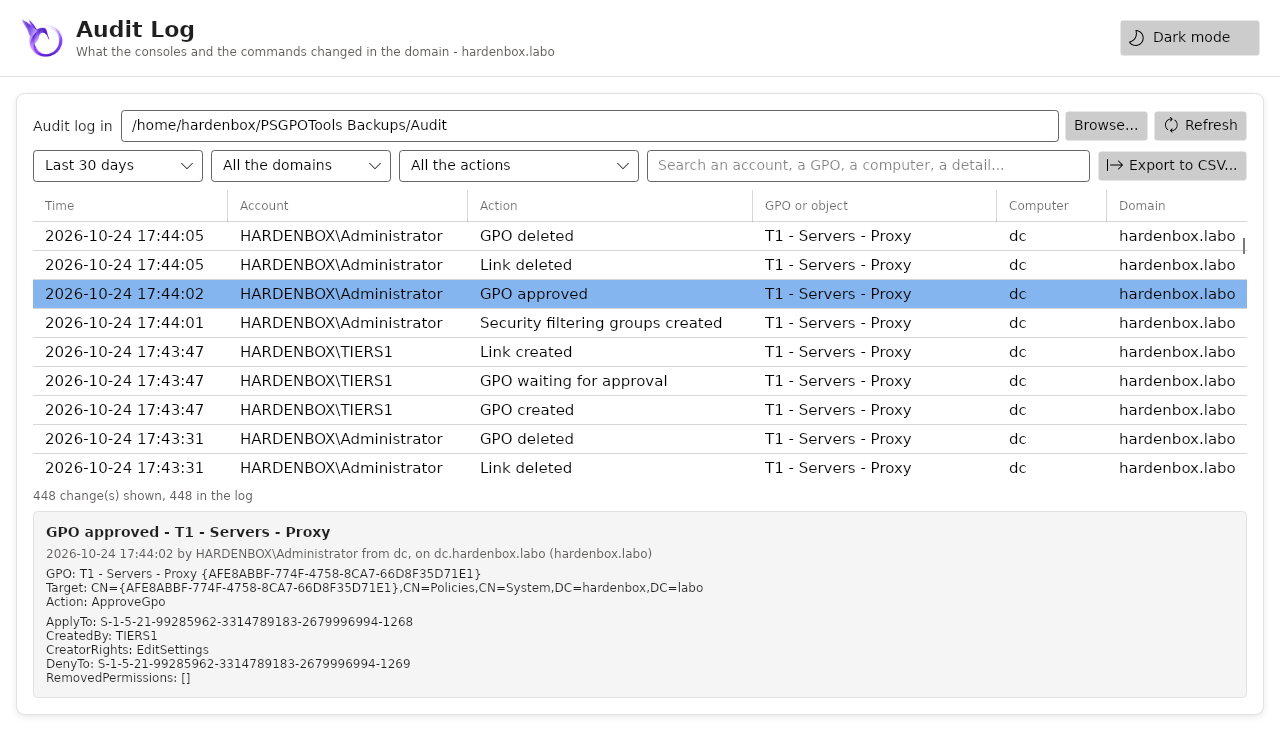
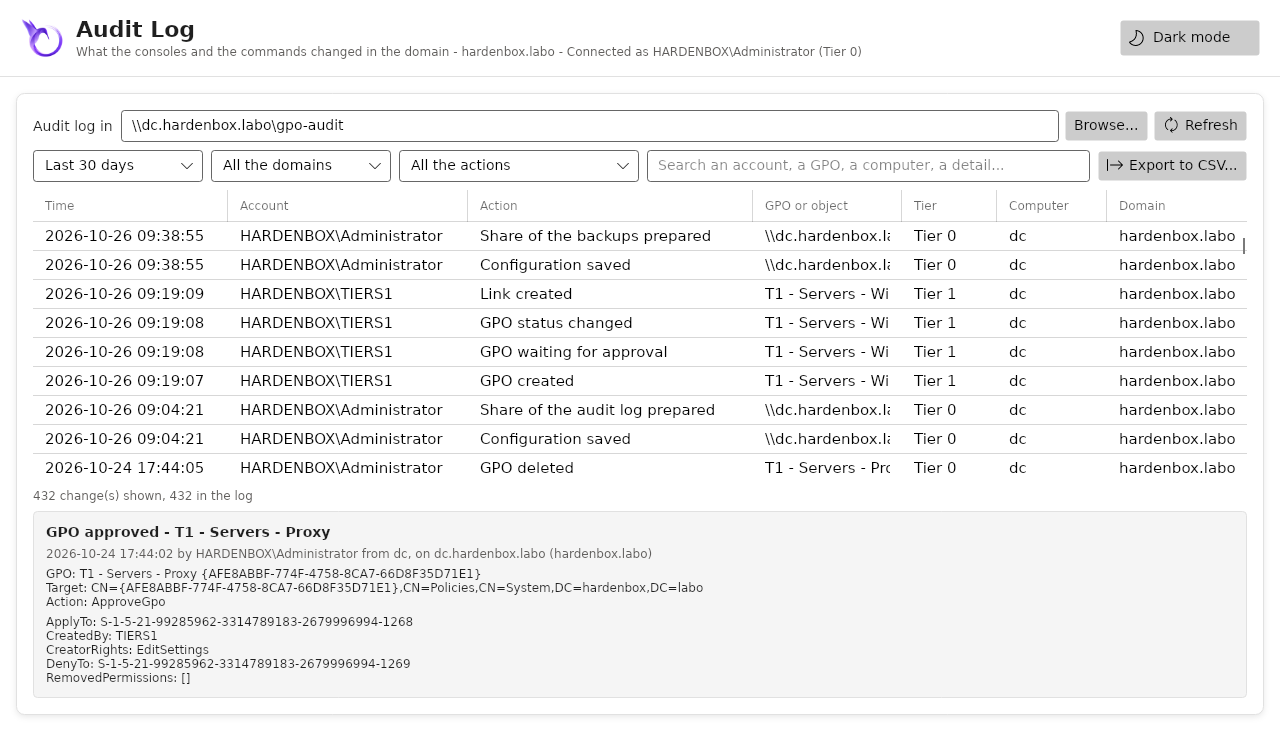
The documentation of the lab of Windows as complete as the one of Samba, with its screenshots; the tiers shown as Tier 0, Tier 1, Tier 2 in both languages

diff --git a/docs/fr/getting-started/lab.md b/docs/fr/getting-started/lab.md
@@ -1,27 +1,36 @@
 # Le labo
 
-Les captures et les tests de cette documentation viennent de deux domaines.
+Les captures et les tests de cette documentation viennent de deux domaines construits de la même
+façon, l'un sous Linux avec Samba AD, l'autre sous Windows avec Active Directory : les mêmes tiers,
+groupes, délégation, workflow d'approbation et partages centraux.
 
-## hardenbox.labo (Samba AD)
+| | hardenbox.labo (Samba AD) | powershell.labo (Active Directory) |
+|---|---|---|
+| Contrôleur de domaine | `dc.hardenbox.labo`, Debian 13, Samba 4.22 | `ADDS.powershell.labo`, Windows Server |
+| Console | sur le contrôleur de domaine lui-même, Linux, PowerShell 7 | `CLI`, Windows 11 membre du domaine, PowerShell 7, outils RSAT de gestion des stratégies de groupe |
+| Compte de la console | un ticket Kerberos d'`administrator` (Tier 0) ou de `tiers1` (Tier 1) : `kinit` le change | la session d'`Administrator` (Tier 0), ou de `tiers1` |
+| OU | `Tier 1` (`Servers`, `Groups`), `Tier 2` (`Workstations`, `Users`, `Groups`), `Test`, `Groupes`, `Domain Controllers` | `Tier 1` (`Servers`, `Groups`), `Tier 2` (`Workstations`, `Users`, `Groups`), `azertyuiop`, `Domain Controllers` |
+| Groupes | `GPO-Tier1-Admins` (membre `tiers1`), `GPO-Tier2-Admins` (membre `tiers2`) | `GPO-Tier1-Admins` (membre `Tiers1`), `GPO-Tier2-Admins` (membre `Tiers2`) |
+| Délégation | chaque groupe lie des GPO à son OU (écriture de `gPLink` et `gPOptions`) | la même |
+| GPO | Default Domain Policy, Default Domain Controllers Policy, `T1 - Servers - Baseline`, `T2 - Workstations - Baseline`… | Default Domain Policy, Default Domain Controllers Policy, `TEST` |
+| Workflow d'approbation | activé : approbateurs `Domain Admins`, créateurs `GPO-Tier1-Admins`, `GPO-Tier2-Admins` | le même |
+| Journal d'audit central | `\\dc.hardenbox.labo\gpo-audit` (partage Samba du contrôleur de domaine) | `\\CLI.powershell.labo\gpo-audit` (`C:\Shares\gpo-audit`) |
+| Sauvegardes centrales | `\\dc.hardenbox.labo\gpo-backups`, monté sur `/mnt/gpo-backups` | `\\CLI.powershell.labo\gpo-backups` (`C:\Shares\gpo-backups`) |
+| Journal du système | journald (`journalctl -t hgpm`) | le journal d'événements Application, source HGPM |
 
-| | |
-|---|---|
-| Contrôleur de domaine | `dc.hardenbox.labo`, Debian 13, Samba 4.22 |
-| OU | `Tier 1` (`Servers`, `Groups`), `Tier 2` (`Workstations`, `Users`, `Groups`), `Test`, `Groupes`, `Domain Controllers` |
-| Groupes | `GPO-Tier1-Admins` (membre `tiers1`), `GPO-Tier2-Admins` (membre `tiers2`) |
-| Délégation | chaque groupe lie des GPO à son OU (écriture de `gPLink` et `gPOptions`) |
-| GPO | Default Domain Policy, Default Domain Controllers Policy, `T1 - Servers - Baseline`, `T2 - Workstations - Baseline`… |
-| Workflow d'approbation | activé : approbateurs `Domain Admins`, créateurs `GPO-Tier1-Admins`, `GPO-Tier2-Admins` |
+=== "hardenbox.labo (Samba AD)"
 
-La console tourne sur le contrôleur de domaine lui-même, avec un ticket Kerberos d'`administrator`
-(Tier 0) ou de `tiers1` (Tier 1) : `kinit` change le compte qu'utilise la console.
+    ![La console sur hardenbox.labo](../assets/screenshots/01-console-domain.fr.png)
 
-## powershell.labo (Active Directory)
+    ![Le journal d'audit de hardenbox.labo](../assets/screenshots/63-audit-log.fr.png)
 
-| | |
-|---|---|
-| Contrôleur de domaine | `ADDS.powershell.labo`, Windows Server |
-| Client | Windows 11 membre du domaine, outils RSAT de gestion des stratégies de groupe |
+=== "powershell.labo (Active Directory)"
+
+    ![La console sur powershell.labo](../assets/screenshots/65-console-active-directory.fr.png)
+
+    ![Le journal d'audit de powershell.labo](../assets/screenshots/66-audit-log-active-directory.fr.png)
+
+    ![Les événements de HGPM dans l'Observateur d'événements](../assets/screenshots/67-event-viewer.png)
 
 ## Monter le vôtre
 

diff --git a/docs/en/getting-started/lab.md b/docs/en/getting-started/lab.md
@@ -1,27 +1,36 @@
 # The lab
 
-The screenshots and the tests of this documentation come from two domains.
+The screenshots and the tests of this documentation come from two domains built the same way, one
+on Linux with Samba AD, one on Windows with Active Directory: the same tiers, groups, delegation,
+approval workflow and central shares.
 
-## hardenbox.labo (Samba AD)
+| | hardenbox.labo (Samba AD) | powershell.labo (Active Directory) |
+|---|---|---|
+| Domain controller | `dc.hardenbox.labo`, Debian 13, Samba 4.22 | `ADDS.powershell.labo`, Windows Server |
+| Console | on the domain controller itself, Linux, PowerShell 7 | `CLI`, Windows 11 member of the domain, PowerShell 7, RSAT Group Policy Management tools |
+| Account of the console | a Kerberos ticket of `administrator` (Tier 0) or of `tiers1` (Tier 1): `kinit` changes it | the session of `Administrator` (Tier 0), or of `tiers1` |
+| OUs | `Tier 1` (`Servers`, `Groups`), `Tier 2` (`Workstations`, `Users`, `Groups`), `Test`, `Groupes`, `Domain Controllers` | `Tier 1` (`Servers`, `Groups`), `Tier 2` (`Workstations`, `Users`, `Groups`), `azertyuiop`, `Domain Controllers` |
+| Groups | `GPO-Tier1-Admins` (member `tiers1`), `GPO-Tier2-Admins` (member `tiers2`) | `GPO-Tier1-Admins` (member `Tiers1`), `GPO-Tier2-Admins` (member `Tiers2`) |
+| Delegation | each group links GPOs to its own OU (write `gPLink` and `gPOptions`) | the same |
+| GPOs | Default Domain Policy, Default Domain Controllers Policy, `T1 - Servers - Baseline`, `T2 - Workstations - Baseline`... | Default Domain Policy, Default Domain Controllers Policy, `TEST` |
+| Approval workflow | enabled: approvers `Domain Admins`, creators `GPO-Tier1-Admins`, `GPO-Tier2-Admins` | the same |
+| Central audit log | `\\dc.hardenbox.labo\gpo-audit` (Samba share on the domain controller) | `\\CLI.powershell.labo\gpo-audit` (`C:\Shares\gpo-audit`) |
+| Central backups | `\\dc.hardenbox.labo\gpo-backups`, mounted on `/mnt/gpo-backups` | `\\CLI.powershell.labo\gpo-backups` (`C:\Shares\gpo-backups`) |
+| Log of the system | journald (`journalctl -t hgpm`) | the event log Application, source HGPM |
 
-| | |
-|---|---|
-| Domain controller | `dc.hardenbox.labo`, Debian 13, Samba 4.22 |
-| OUs | `Tier 1` (`Servers`, `Groups`), `Tier 2` (`Workstations`, `Users`, `Groups`), `Test`, `Groupes`, `Domain Controllers` |
-| Groups | `GPO-Tier1-Admins` (member `tiers1`), `GPO-Tier2-Admins` (member `tiers2`) |
-| Delegation | each group links GPOs to its own OU (write `gPLink` and `gPOptions`) |
-| GPOs | Default Domain Policy, Default Domain Controllers Policy, `T1 - Servers - Baseline`, `T2 - Workstations - Baseline`... |
-| Approval workflow | enabled: approvers `Domain Admins`, creators `GPO-Tier1-Admins`, `GPO-Tier2-Admins` |
+=== "hardenbox.labo (Samba AD)"
 
-The console runs on the domain controller itself, with a Kerberos ticket of `administrator`
-(Tier 0) or of `tiers1` (Tier 1): `kinit` changes the account the console uses.
+    ![The console on hardenbox.labo](../assets/screenshots/01-console-domain.png)
 
-## powershell.labo (Active Directory)
+    ![The audit log of hardenbox.labo](../assets/screenshots/63-audit-log.png)
 
-| | |
-|---|---|
-| Domain controller | `ADDS.powershell.labo`, Windows Server |
-| Client | Windows 11 member of the domain, RSAT Group Policy Management tools |
+=== "powershell.labo (Active Directory)"
+
+    ![The console on powershell.labo](../assets/screenshots/65-console-active-directory.png)
+
+    ![The audit log of powershell.labo](../assets/screenshots/66-audit-log-active-directory.png)
+
+    ![The events of HGPM in the Event Viewer](../assets/screenshots/67-event-viewer.png)
 
 ## Make your own
 

diff --git a/docs/fr/features/audit-log.md b/docs/fr/features/audit-log.md
@@ -14,7 +14,13 @@ Show-AuditLogAvalonia -Path \\fichiers\gpo-audit              # un autre dossier
 Show-AuditLogAvalonia -Server dc.hardenbox.labo -Language fr-FR
 ```
 
-![Le journal d'audit](../assets/screenshots/63-audit-log.fr.png)
+=== "Samba AD (Linux)"
+
+    ![Le journal d'audit](../assets/screenshots/63-audit-log.fr.png)
+
+=== "Active Directory (Windows)"
+
+    ![Le journal d'audit sous Windows, le partage central](../assets/screenshots/66-audit-log-active-directory.fr.png)
 
 ## Les modifications
 
@@ -70,6 +76,7 @@ Le partage a un dossier par tier, et les droits des rôles :
 | `Tier1` | les groupes de `Audit.Tiers.Tier1` | le Tier 1, le Tier 0, les lecteurs |
 | `Tier2` | les groupes de `Audit.Tiers.Tier2` | le Tier 2, le Tier 0, les lecteurs |
 | `Unassigned` | un compte sans tier | le Tier 0, les lecteurs |
+| le partage lui-même | personne | listé par les groupes des tiers et les lecteurs ; tout autre compte ne fait que le traverser, vers `Unassigned` |
 
 - Chaque compte ajoute ses modifications à **son propre fichier** :
   `<tier>\<domaine>-<aaaa-MM>-<compte>-<ordinateur>.jsonl`. Deux consoles n'écrivent jamais le même
@@ -191,6 +198,8 @@ du journal technique partent aussi dans le journal du système, où un SIEM les 
 | Une modification | Information, l'ID d'événement de son action | `user.notice`, `[<ID d'événement>]` |
 | Un avertissement, une erreur | Warning 2000, Error 3000 | `user.warning`, `user.err` |
 | Une fois par ordinateur | `Register-PSGPOEventSource`, en administrateur | rien |
+
+![Les événements de HGPM dans l'Observateur d'événements](../assets/screenshots/67-event-viewer.png)
 
 Le message dit quoi, par qui, d'où et sur quoi, puis l'entrée du journal d'audit en JSON :
 

diff --git a/docs/en/features/audit-log.md b/docs/en/features/audit-log.md
@@ -13,7 +13,13 @@ Show-AuditLogAvalonia -Path \\files\gpo-audit                # another folder
 Show-AuditLogAvalonia -Server dc.hardenbox.labo -Language fr-FR
 ```
 
-![The audit log](../assets/screenshots/63-audit-log.png)
+=== "Samba AD (Linux)"
+
+    ![The audit log](../assets/screenshots/63-audit-log.png)
+
+=== "Active Directory (Windows)"
+
+    ![The audit log on Windows, the central share](../assets/screenshots/66-audit-log-active-directory.png)
 
 ## The changes
 
@@ -67,6 +73,7 @@ The share has a folder per tier, and the permissions of the roles:
 | `Tier1` | the groups of `Audit.Tiers.Tier1` | Tier 1, Tier 0, the readers |
 | `Tier2` | the groups of `Audit.Tiers.Tier2` | Tier 2, Tier 0, the readers |
 | `Unassigned` | an account in no tier | Tier 0, the readers |
+| the share itself | nobody | listed by the groups of the tiers and the readers; any other account only goes through it, to `Unassigned` |
 
 - Each account adds its changes to **its own file**: `<tier>\<domain>-<yyyy-MM>-<account>-<computer>.jsonl`.
   No two consoles write the same file; nobody but the administrators deletes a file or changes its
@@ -186,6 +193,8 @@ log also goes to the log of the system, where a SIEM collects it:
 | A change | Information, the event ID of its action | `user.notice`, `[<event ID>]` |
 | A warning, an error | Warning 2000, Error 3000 | `user.warning`, `user.err` |
 | Once per computer | `Register-PSGPOEventSource`, as an administrator | nothing |
+
+![The events of HGPM in the Event Viewer](../assets/screenshots/67-event-viewer.png)
 
 The message says what, by whom, from where and on what, then the entry of the audit log as JSON:
 

diff --git a/docs/fr/features/policy-analyzer.md b/docs/fr/features/policy-analyzer.md
@@ -26,8 +26,9 @@ Show-PolicyAnalyzerAvalonia -Server dc.contoso.com -Path '.\Windows 11 v25H2 Sec
 À gauche, les jeux de règles : les fichiers `.PolicyRules` du dossier
 *Jeux de règles dans* (`Documents\PolicyAnalyzer` par défaut, comme Policy Analyzer : copiez-y les
 fichiers des baselines de sécurité de Microsoft), et les jeux ajoutés avec **GPO du domaine...**
-(les GPO choisies, telles qu'elles sont) ou **Sauvegardes GPMC...** (le dossier `GPOs` d'une
-baseline). Cochez les jeux à comparer, puis **Afficher / Comparer**.
+(les GPO choisies, telles qu'elles sont) ou **Sauvegardes...** (le dossier `GPOs` d'une
+baseline, ou les sauvegardes de HGPM : les centrales du Tier 0 d'abord). Cochez les jeux à
+comparer, puis **Afficher / Comparer**.
 
 ![Des GPO du domaine comme jeu de règles](../assets/screenshots/54-policy-analyzer-gpos.fr.png)
 

diff --git a/docs/en/features/policy-analyzer.md b/docs/en/features/policy-analyzer.md
@@ -26,8 +26,9 @@ Show-PolicyAnalyzerAvalonia -Server dc.contoso.com -Path '.\Windows 11 v25H2 Sec
 On the left, the rule sets: the `.PolicyRules` files of the folder
 *Policy Rule sets in* (`Documents\PolicyAnalyzer` by default, as Policy Analyzer: copy there the
 files of the security baselines of Microsoft), and the sets added with **GPOs of the domain...**
-(the GPOs chosen, as they are now) or **GPMC backups...** (the `GPOs` folder of a baseline).
-Check the sets to compare, then **View / Compare**.
+(the GPOs chosen, as they are now) or **Backups...** (the `GPOs` folder of a baseline, or the
+backups of HGPM: the central ones of Tier 0 at first). Check the sets to compare, then
+**View / Compare**.
 
 ![GPOs of the domain as a rule set](../assets/screenshots/54-policy-analyzer-gpos.png)
 

diff --git a/CHANGELOG.md b/CHANGELOG.md
@@ -21,6 +21,7 @@
 
 ### Changed
 
+* The documentation shows the lab of Windows as the one of Samba: the page of the lab compares both domains (tiers, groups, delegation, workflow, central shares, log of the system), with screenshots of the console and of the audit log on Active Directory and of the events of HGPM in the Event Viewer; the screenshots of the Settings window and of the audit log taken again
 * The actions of the audit log listed in the documentation are all those the module writes (`InstallAdmx` and the password policies added)
 
 * The screenshots of the approval workflow (the console of a Tier 1 technician, its new GPO, its approval, the GPO approved) taken again, in English and French: the header of the console without the Policy Analyzer button

diff --git a/docs/fr/index.md b/docs/fr/index.md
@@ -5,7 +5,13 @@ en PowerShell 7 avec une interface [Avalonia](https://avaloniaui.net/). Elle fon
 **Windows et Linux**, et gère aussi bien les GPO des domaines **Samba AD** que ceux d'**Active
 Directory**.
 
-![La vue Group Policy Management sur un domaine Samba AD](assets/screenshots/01-console-domain.fr.png)
+=== "Samba AD (Linux)"
+
+    ![La vue Group Policy Management sur un domaine Samba AD](assets/screenshots/01-console-domain.fr.png)
+
+=== "Active Directory (Windows)"
+
+    ![La vue Group Policy Management sur un domaine Active Directory](assets/screenshots/65-console-active-directory.fr.png)
 
 ## Ce qu'elle fait
 

diff --git a/docs/en/index.md b/docs/en/index.md
@@ -4,7 +4,13 @@
 PowerShell 7 with an [Avalonia](https://avaloniaui.net/) interface. It runs on **Windows and
 Linux**, and manages the GPOs of **Samba AD** and **Windows Active Directory** domains alike.
 
-![The Group Policy Management view on a Samba AD domain](assets/screenshots/01-console-domain.png)
+=== "Samba AD (Linux)"
+
+    ![The Group Policy Management view on a Samba AD domain](assets/screenshots/01-console-domain.png)
+
+=== "Active Directory (Windows)"
+
+    ![The Group Policy Management view on an Active Directory domain](assets/screenshots/65-console-active-directory.png)
 
 ## What it does
 
